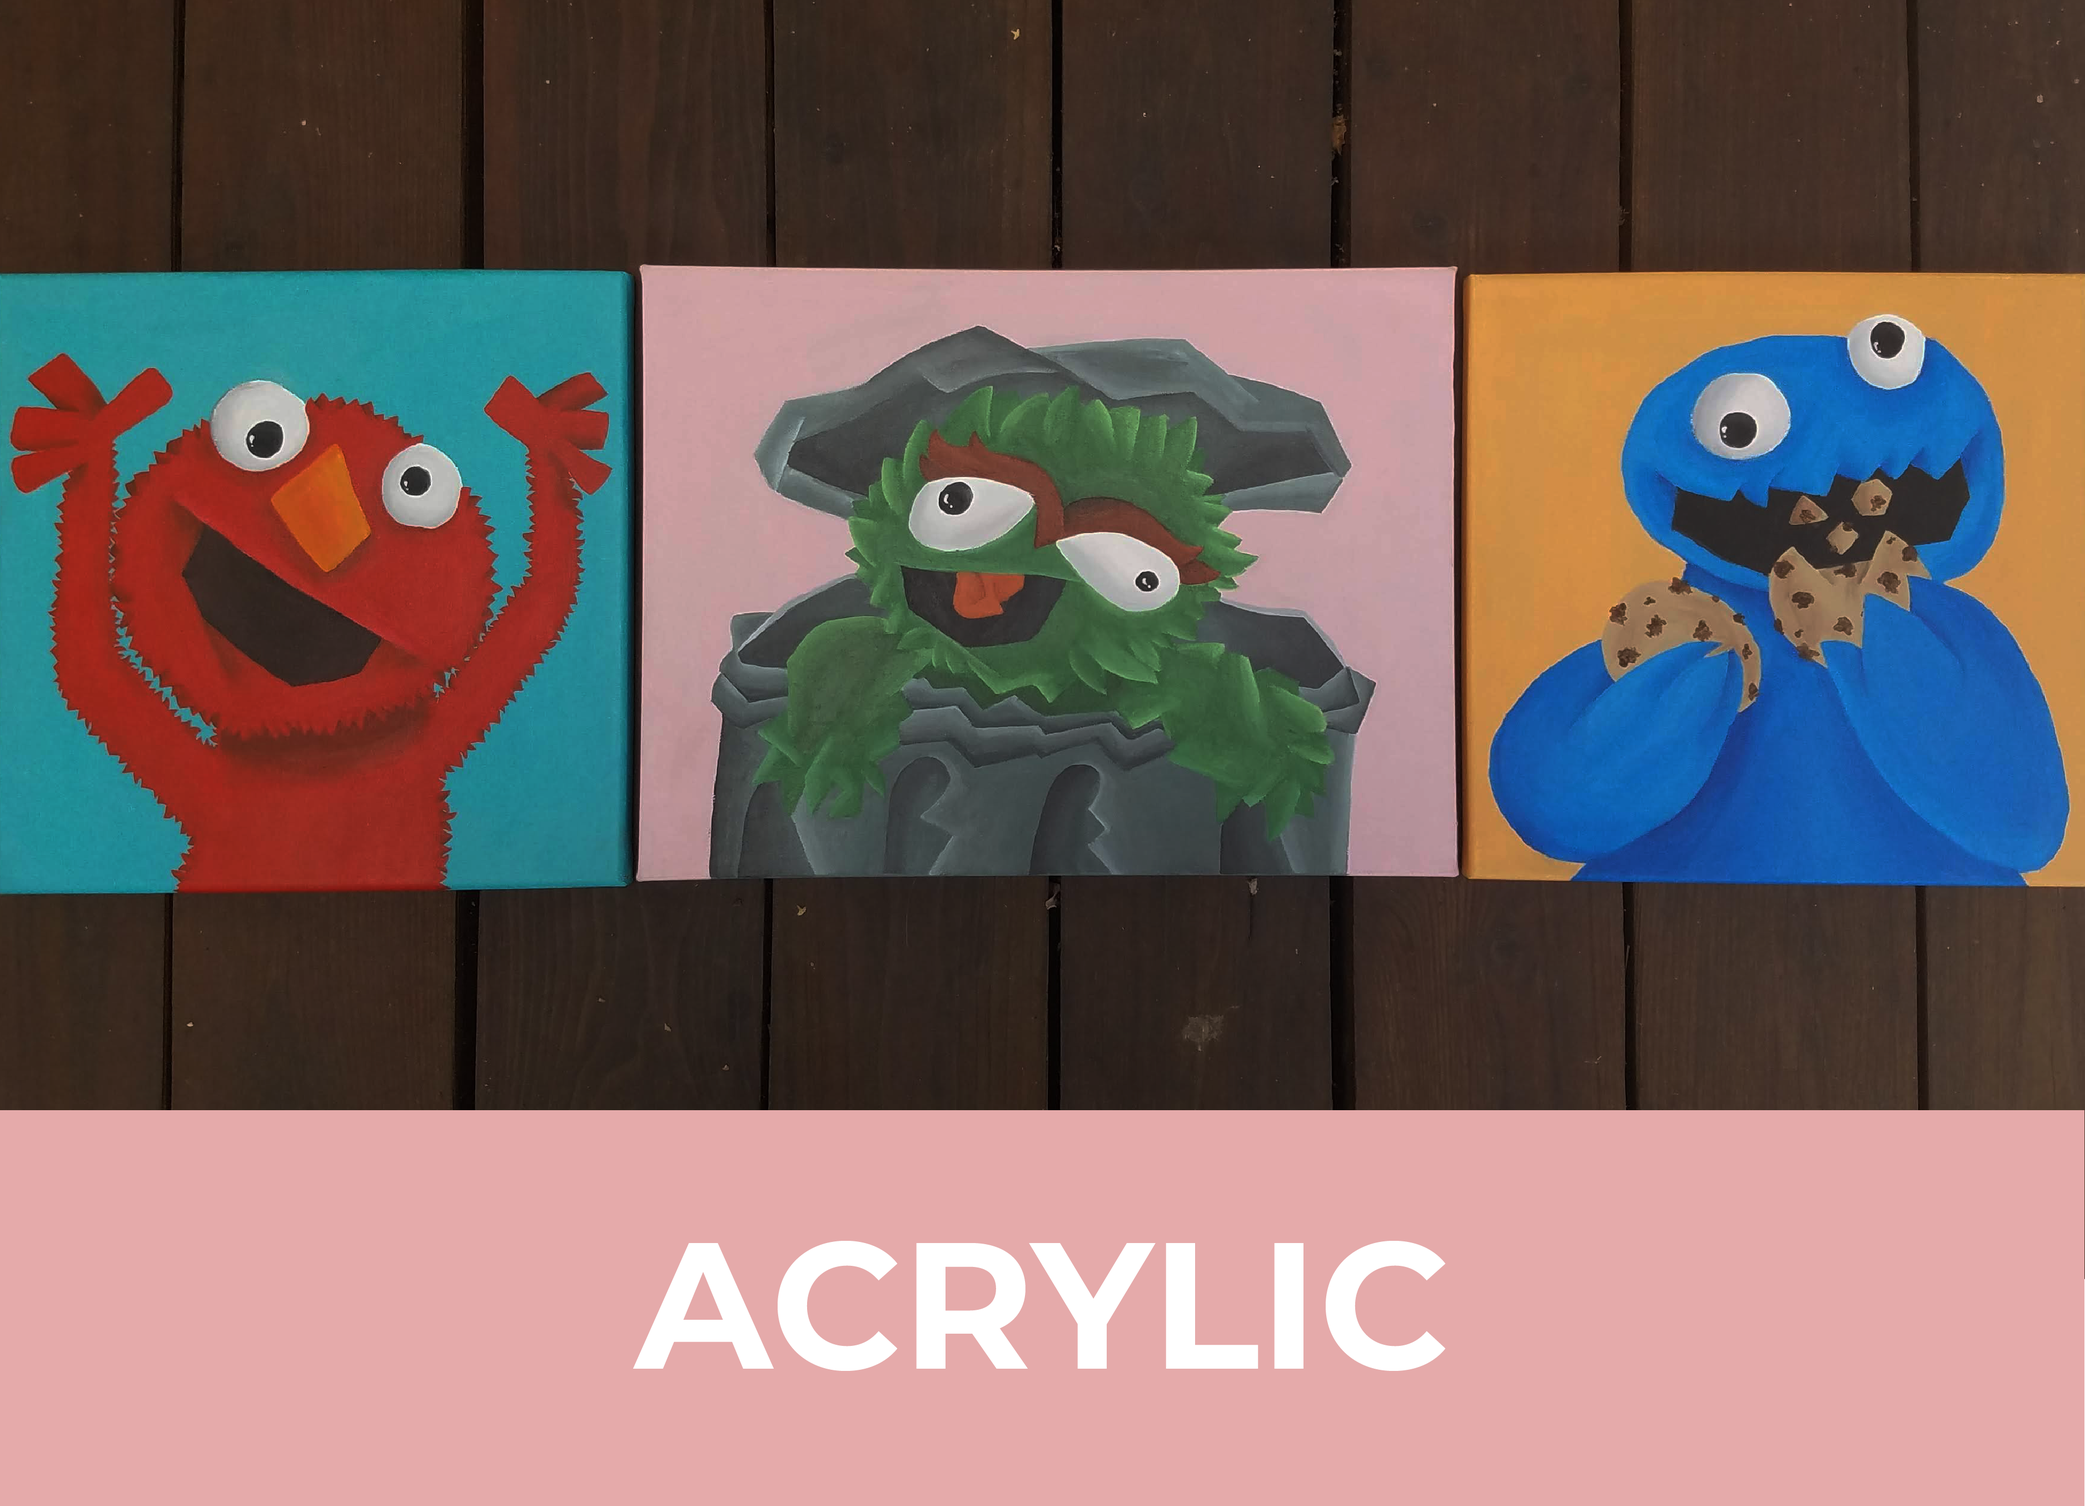
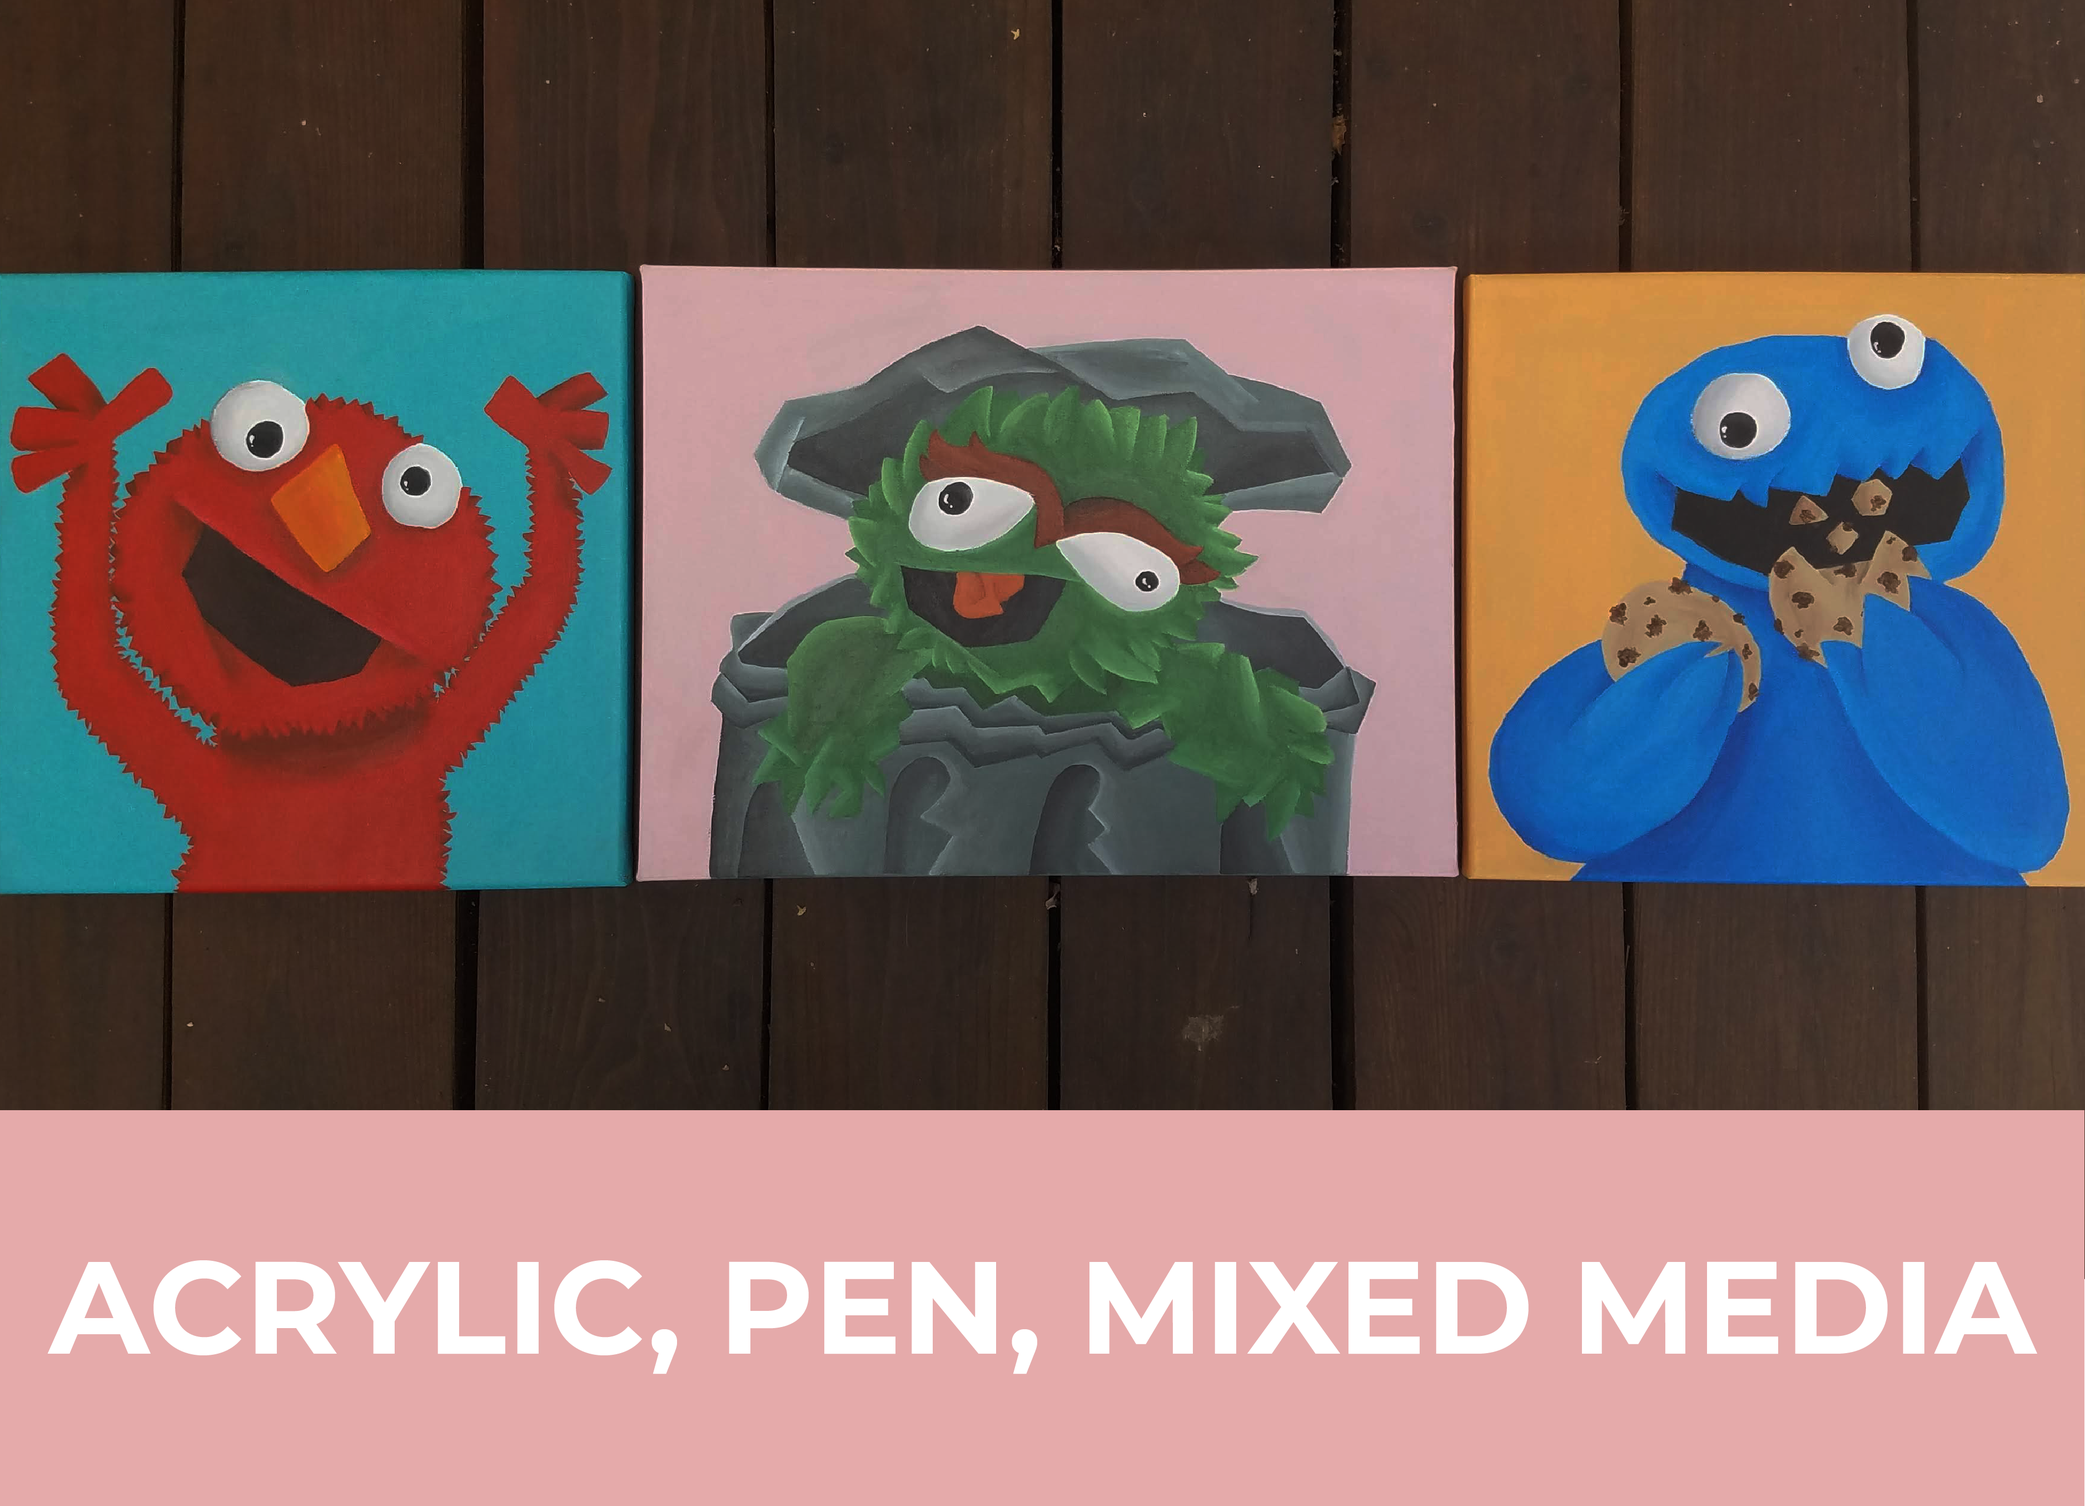
progress

Changed region(s): [[0.0, 0.8062, 0.9981, 0.9302]]

diff --git a/index.html b/index.html
@@ -82,6 +82,15 @@
     <script type="text/javascript" src="js/Common/initShaders.js"></script>
     <script type="text/javascript" src="js/Common/MV.js"></script>
     <script type="text/javascript" src="js/tetrix.js"></script>
+
+    <script>
+        document.addEventListener("keyup", function(e) {
+            if (e.keyCode == 27) {
+                jQuery.magnificPopup.close();
+            }
+        });
+    </script>
+
   </head>
 
 
@@ -130,7 +139,7 @@
         <h2 class="text-center text-uppercase text-secondary mb-0">About</h2>
         <hr class="star-dark mb-5">
         <div class="row">
-          <div class="col-lg-5 ml-auto">
+          <div class="col-lg-5 ml-auto text-secondary">
             <h4 class="text-center mb-4">Hello World!</h4>
             <p class="lead blocked">
               I'm a senior at
@@ -148,13 +157,10 @@
             </p>
           </div>
           <div class="col-lg-5 mr-auto">
-            <button id="xButton">Rotate X</button>
-            <button id="yButton">Rotate Y</button>
-            <button id="zButton">Rotate Z</button>
-            <br>
             <canvas id="gl-canvas">
               Oops ... your browser doesn't support the HTML5 canvas element
             </canvas>
+            <center><input type="range" min="0" max="4" value="2" id="recursionSlider">Recursion Depth</input></center>
           </div>
         </div>
       </div>
@@ -253,7 +259,7 @@
                   <i class="fas fa-search-plus fa-3x"></i>
                 </div>
               </div>
-              <img class="img-fluid" src="assets/digitaldesign.png" alt="">
+              <img class="img-fluid" src="assets/cards.png" alt="">
             </a>
           </div>
           <div class="col-md-6 col-lg-4">
@@ -263,11 +269,21 @@
                   <i class="fas fa-search-plus fa-3x"></i>
                 </div>
               </div>
-              <img class="img-fluid" src="assets/digitaldrawing.png" alt="">
+              <img class="img-fluid" src="assets/digitaldesign.png" alt="">
             </a>
           </div>
           <div class="col-md-6 col-lg-4">
             <a class="portfolio-item d-block mx-auto" href="#portfolio-modal-5a">
+              <div class="portfolio-item-caption d-flex position-absolute h-100 w-100">
+                <div class="portfolio-item-caption-content my-auto w-100 text-center text-white">
+                  <i class="fas fa-search-plus fa-3x"></i>
+                </div>
+              </div>
+              <img class="img-fluid" src="assets/digitaldrawing.png" alt="">
+            </a>
+          </div>
+          <div class="col-md-6 col-lg-4">
+            <a class="portfolio-item d-block mx-auto" href="#portfolio-modal-6a">
               <div class="portfolio-item-caption d-flex position-absolute h-100 w-100">
                 <div class="portfolio-item-caption-content my-auto w-100 text-center text-white">
                   <i class="fas fa-search-plus fa-3x"></i>
@@ -457,11 +473,25 @@
             <div class="col-lg-8 mx-auto">
               <h2 class="text-secondary text-uppercase mb-0">Watercolor</h2>
               <hr class="star-dark mb-5">
-              <img class="img-fluid mb-5" src="img/portfolio/cabin.png" alt="">
-              <p class="mb-5">Lorem ipsum dolor sit amet, consectetur adipisicing elit. Mollitia neque assumenda ipsam nihil, molestias magnam, recusandae quos quis inventore quisquam velit asperiores, vitae? Reprehenderit soluta, eos quod consequuntur itaque. Nam.</p>
+              <p class="mb-5 text-secondary">Here are a few of my favorite watercolor pieces I've worked on. I've mostly just painted with watercolors for fun on my own, but a few of the pieces I've made have been for a painting class. In 2015, I had a particular interest in painting fish, and depicted below are my first fish next to my sixth fish. Practice makes better!</p>
+              <div class="row">
+                <div class="col-lg-6">
+                  <img class="img-fluid mb-5" src="assets/watercolor01.png" alt="">
+                </div>
+                <div class="col-lg-6">
+                  <img class="img-fluid mb-5" src="assets/watercolor04.png" alt="">
+                </div>
+              </div>
+              <div class="row">
+                <div class="col-lg-6">
+                  <img class="img-fluid mb-5" src="assets/watercolor03.png" alt="">
+                </div>
+                <div class="col-lg-6">
+                  <img class="img-fluid mb-5" src="assets/watercolor02.png" alt="">
+                </div>
+              </div>
               <a class="btn btn-primary btn-lg rounded-pill portfolio-modal-dismiss" href="#">
-                <i class="fa fa-close"></i>
-                Close Project</a>
+                <i class="fa fa-close"></i>Close</a>
             </div>
           </div>
         </div>
@@ -477,13 +507,35 @@
         <div class="container text-center">
           <div class="row">
             <div class="col-lg-8 mx-auto">
-              <h2 class="text-secondary text-uppercase mb-0">Acrylic</h2>
+              <h2 class="text-secondary text-uppercase mb-0">Acrylic, Pen, and Mixed Media</h2>
               <hr class="star-dark mb-5">
-              <img class="img-fluid mb-5" src="img/portfolio/cake.png" alt="">
-              <p class="mb-5">Lorem ipsum dolor sit amet, consectetur adipisicing elit. Mollitia neque assumenda ipsam nihil, molestias magnam, recusandae quos quis inventore quisquam velit asperiores, vitae? Reprehenderit soluta, eos quod consequuntur itaque. Nam.</p>
+              <p class="mb-5 text-secondary">Text</p>
+              <div class="row">
+                <div class="col-lg-6">
+                  <img class="img-fluid mb-5" src="assets/acrylic05.png" alt="">
+                </div>
+                <div class="col-lg-6">
+                  <img class="img-fluid mb-5" src="assets/acrylic04.png" alt="">
+                </div>
+              </div>
+              <div class="row">
+                <div class="col-lg-6">
+                  <img class="img-fluid mb-5" src="assets/acrylic02.png" alt="">
+                </div>
+                <div class="col-lg-6">
+                  <img class="img-fluid mb-5" src="assets/acrylic01.png" alt="">
+                </div>
+              </div>
+              <div class="row">
+                <div class="col-lg-6">
+                  <img class="img-fluid mb-5" src="assets/acrylic06.png" alt="">
+                </div>
+                <div class="col-lg-6">
+                  <img class="img-fluid mb-5" src="assets/acrylic03.png" alt="">
+                </div>
+              </div>
               <a class="btn btn-primary btn-lg rounded-pill portfolio-modal-dismiss" href="#">
-                <i class="fa fa-close"></i>
-                Close Project</a>
+                <i class="fa fa-close"></i>Close</a>
             </div>
           </div>
         </div>
@@ -499,13 +551,20 @@
         <div class="container text-center">
           <div class="row">
             <div class="col-lg-8 mx-auto">
-              <h2 class="text-secondary text-uppercase mb-0">Digital Design</h2>
+              <h2 class="text-secondary text-uppercase mb-0">Cards</h2>
               <hr class="star-dark mb-5">
-              <img class="img-fluid mb-5" src="img/portfolio/circus.png" alt="">
-              <p class="mb-5">Lorem ipsum dolor sit amet, consectetur adipisicing elit. Mollitia neque assumenda ipsam nihil, molestias magnam, recusandae quos quis inventore quisquam velit asperiores, vitae? Reprehenderit soluta, eos quod consequuntur itaque. Nam.</p>
+              <p class="mb-5 text-secondary">Text</p>
+              <div class="row">
+                <div class="col-lg-6">
+                  <img class="img-fluid mb-5" src="assets/card01.png" alt="">
+                </div>
+                <div class="col-lg-6">
+                  <img class="img-fluid mb-5" src="assets/card02.png" alt="">
+                </div>
+              </div>
+              <img class="img-fluid mb-5" src="assets/card03.png" alt="">
               <a class="btn btn-primary btn-lg rounded-pill portfolio-modal-dismiss" href="#">
-                <i class="fa fa-close"></i>
-                Close Project</a>
+                <i class="fa fa-close"></i>Close</a>
             </div>
           </div>
         </div>
@@ -521,9 +580,46 @@
         <div class="container text-center">
           <div class="row">
             <div class="col-lg-8 mx-auto">
+              <h2 class="text-secondary text-uppercase mb-0">Digital Design</h2>
+              <hr class="star-dark mb-5">
+              <p class="mb-5 text-secondary">Text</p>
+              <div class="row">
+                <div class="col-lg-6">
+                  <img class="img-fluid mb-5" src="assets/digital05.png" alt="">
+                </div>
+                <div class="col-lg-6">
+                  <img class="img-fluid mb-5" src="assets/digital01.png" alt="">
+                </div>
+              </div>
+              <img class="img-fluid mb-5" src="assets/digital02.png" alt="">
+              <div class="row">
+                <div class="col-lg-6">
+                  <img class="img-fluid mb-5" src="assets/digital03.png" alt="">
+                </div>
+                <div class="col-lg-6">
+                  <img class="img-fluid mb-5" src="assets/digital04.png" alt="">
+                </div>
+              </div>
+              <a class="btn btn-primary btn-lg rounded-pill portfolio-modal-dismiss" href="#">
+                <i class="fa fa-close"></i>Close</a>
+            </div>
+          </div>
+        </div>
+      </div>
+    </div>
+
+    <!-- Portfolio Modal 5 -->
+    <div class="portfolio-modal mfp-hide" id="portfolio-modal-5a">
+      <div class="portfolio-modal-dialog bg-lightpink">
+        <a class="close-button d-none d-md-block portfolio-modal-dismiss" href="#">
+          <i class="fa fa-3x fa-times"></i>
+        </a>
+        <div class="container text-center">
+          <div class="row">
+            <div class="col-lg-8 mx-auto">
               <h2 class="text-secondary text-uppercase mb-0">Digital Drawing</h2>
               <hr class="star-dark mb-5">
-              <img class="img-fluid mb-5" src="img/portfolio/game.png" alt="">
+              <img class="img-fluid mb-5" src="img/portfolio/safe.png" alt="">
               <p class="mb-5">Lorem ipsum dolor sit amet, consectetur adipisicing elit. Mollitia neque assumenda ipsam nihil, molestias magnam, recusandae quos quis inventore quisquam velit asperiores, vitae? Reprehenderit soluta, eos quod consequuntur itaque. Nam.</p>
               <a class="btn btn-primary btn-lg rounded-pill portfolio-modal-dismiss" href="#">
                 <i class="fa fa-close"></i>
@@ -534,8 +630,8 @@
       </div>
     </div>
 
-    <!-- Portfolio Modal 5 -->
-    <div class="portfolio-modal mfp-hide" id="portfolio-modal-5a">
+    <!-- Portfolio Modal 6 -->
+    <div class="portfolio-modal mfp-hide" id="portfolio-modal-6a">
       <div class="portfolio-modal-dialog bg-lightpink">
         <a class="close-button d-none d-md-block portfolio-modal-dismiss" href="#">
           <i class="fa fa-3x fa-times"></i>

diff --git a/js/tetrix.js b/js/tetrix.js
@@ -1,7 +1,9 @@
 // GLOBAL VARIABLES
 var gl;
+var program;
 // Recursion depth
-var depth = 3;
+var depth = 2;
+var oldDepth;
 // Initial vertices
 var vert0 = vec3(-1,  0, -1 / Math.sqrt(2));
 var vert1 = vec3( 1,  0, -1 / Math.sqrt(2));
@@ -10,40 +12,73 @@ var vert3 = vec3( 0, -1,  1 / Math.sqrt(2));
 // Vertices array
 var vertices;
 // Colors used
-var pink1 = vec3(255 / 255, 209 / 255, 220 / 255);
-var pink2 = vec3(252 / 255, 142 / 255, 172 / 255);
-var blue1 = vec3(115 / 255, 194 / 255, 230 / 255);
-var blue2 = vec3(179 / 255, 205 / 255, 224 / 255);
+var pink1 = vec3(229 / 255, 170 / 255, 170 / 255);
+var pink2 = vec3(1, 1, 1);
+var blue1 = vec3(80 / 255, 61 / 255, 61 / 255);
+var blue2 = vec3(141 / 255, 103 / 255, 103 / 255);
 // Colors array
 var colors = [];
 // Vector with point halfway
 var half = [vec3(0, 0, 0), vec3(2, 2, 2), vec3(1, 1, 1)];
 // Rotation variables
 var theta = [0.0, 0.0, 0.0];
-var x_axis = 0;
-var y_axis = 1;
-var z_axis = 2;
-var axis = x_axis;
+var xPos;
+var yPos;
+var axis = 0;
 var theta_loc;
+
+function fitToContainer(canvas) {
+  // Make it visually fill the positioned parent
+  canvas.style.width = '100%';
+  canvas.style.height = '100%';
+
+  let limiter = canvas.offsetWidth;
+  if (canvas.offsetWidth < canvas.offsetHeight) {
+    limiter = canvas.offsetWidth;
+  } else if (canvas.offsetWidth > canvas.offsetHeight) {
+    limiter = canvas.offsetHeight;
+  }
+  canvas.height = limiter;
+  canvas.width = limiter;
+  canvas.removeAttribute("style");
+}
 
 window.onload = function init() {
   var canvas = document.getElementById( "gl-canvas" );
+  fitToContainer(canvas);
 
   gl = WebGLUtils.setupWebGL( canvas );
   if ( !gl ) { alert( "WebGL isn't available" ); }
 
   // Configures WebGL
   gl.viewport( 0, 0, canvas.width, canvas.height );
-  gl.clearColor( 1.0, 1.0, 1.0, 1.0 );
+  gl.clearColor( 0.0, 0.0, 0.0, 0.0 );
   gl.enable(gl.DEPTH_TEST);
 
   // Loads shaders and initializes attribute buffers
-  var program = initShaders( gl, "vertex-shader", "fragment-shader" );
+  program = initShaders( gl, "vertex-shader", "fragment-shader" );
   gl.useProgram( program );
 
+  theta_loc = gl.getUniformLocation(program, "theta");
+
+  // Listeners
+  document.getElementById("recursionSlider").oninput = function() {
+    depth = this.value;
+  }
+
+  document.onmousemove = function(e) {
+    xPos = e.pageX;
+    yPos = e.pageY;
+  }
+
+  render();
+};
+
+function fillBuffer() {
   // Generates vertices through recursive call
   vertices = tetCoords(depth, fillVerts(vert0, vert1, vert2, vert3));
   // Loops through vertices to add correct colors
+  colors = [];
   for (var i = 0; i < vertices.length; i += 12) {
     colors = colors.concat(
       [ pink1, pink1, pink1,
@@ -68,26 +103,19 @@ window.onload = function init() {
   var vColor = gl.getAttribLocation( program, "vColor" );
   gl.vertexAttribPointer( vColor, 3, gl.FLOAT, false, 0, 0 );
   gl.enableVertexAttribArray( vColor );
-
-  theta_loc = gl.getUniformLocation(program, "theta");
-
-  // Rotation listeners
-  document.getElementById("xButton").onclick = function() {
-    axis = x_axis;
-  }
-  document.getElementById("yButton").onclick = function() {
-    axis = y_axis;
-  }
-  document.getElementById("zButton").onclick = function() {
-    axis = z_axis;
-  }
-
-  render();
-};
+}
 
 // Updates rotation and draws triangles
 function render() {
-  theta[axis] += 1;
+  if (oldDepth != depth) {
+    fillBuffer();
+    oldDepth = depth;
+  }
+
+  theta[0] = xPos * 314.159 / window.innerWidth;
+  theta[1] = yPos * 314.159 / window.innerHeight;
+  theta[2] = window.scrollY / 2;
+
   gl.uniform3fv(theta_loc, flatten(theta));
   gl.clear( gl.COLOR_BUFFER_BIT | gl.DEPTH_BUFFER_BIT);
   gl.drawArrays( gl.TRIANGLES, 0, vertices.length );

diff --git a/css/freelancer.css b/css/freelancer.css
@@ -259,14 +259,26 @@ a {
     background-color: #332727;
     border-color: #332727; }
 
-canvas.gl-canvas {
-  display: block;
-}
-
 html, body {
     height: 100%;
 }
 
 header {
-    height: 100%;
+  height: 100%;
+  position: relative;
+}
+
+header div.container {
+  position: absolute;
+  top: 50%;
+  left: 50%;
+  transform: translate(-50%, -50%);
+}
+
+img {
+  image-orientation: from-image;
+}
+
+.col-lg-8 p.mb-5 {
+  font-size: 1.3em;
 }
